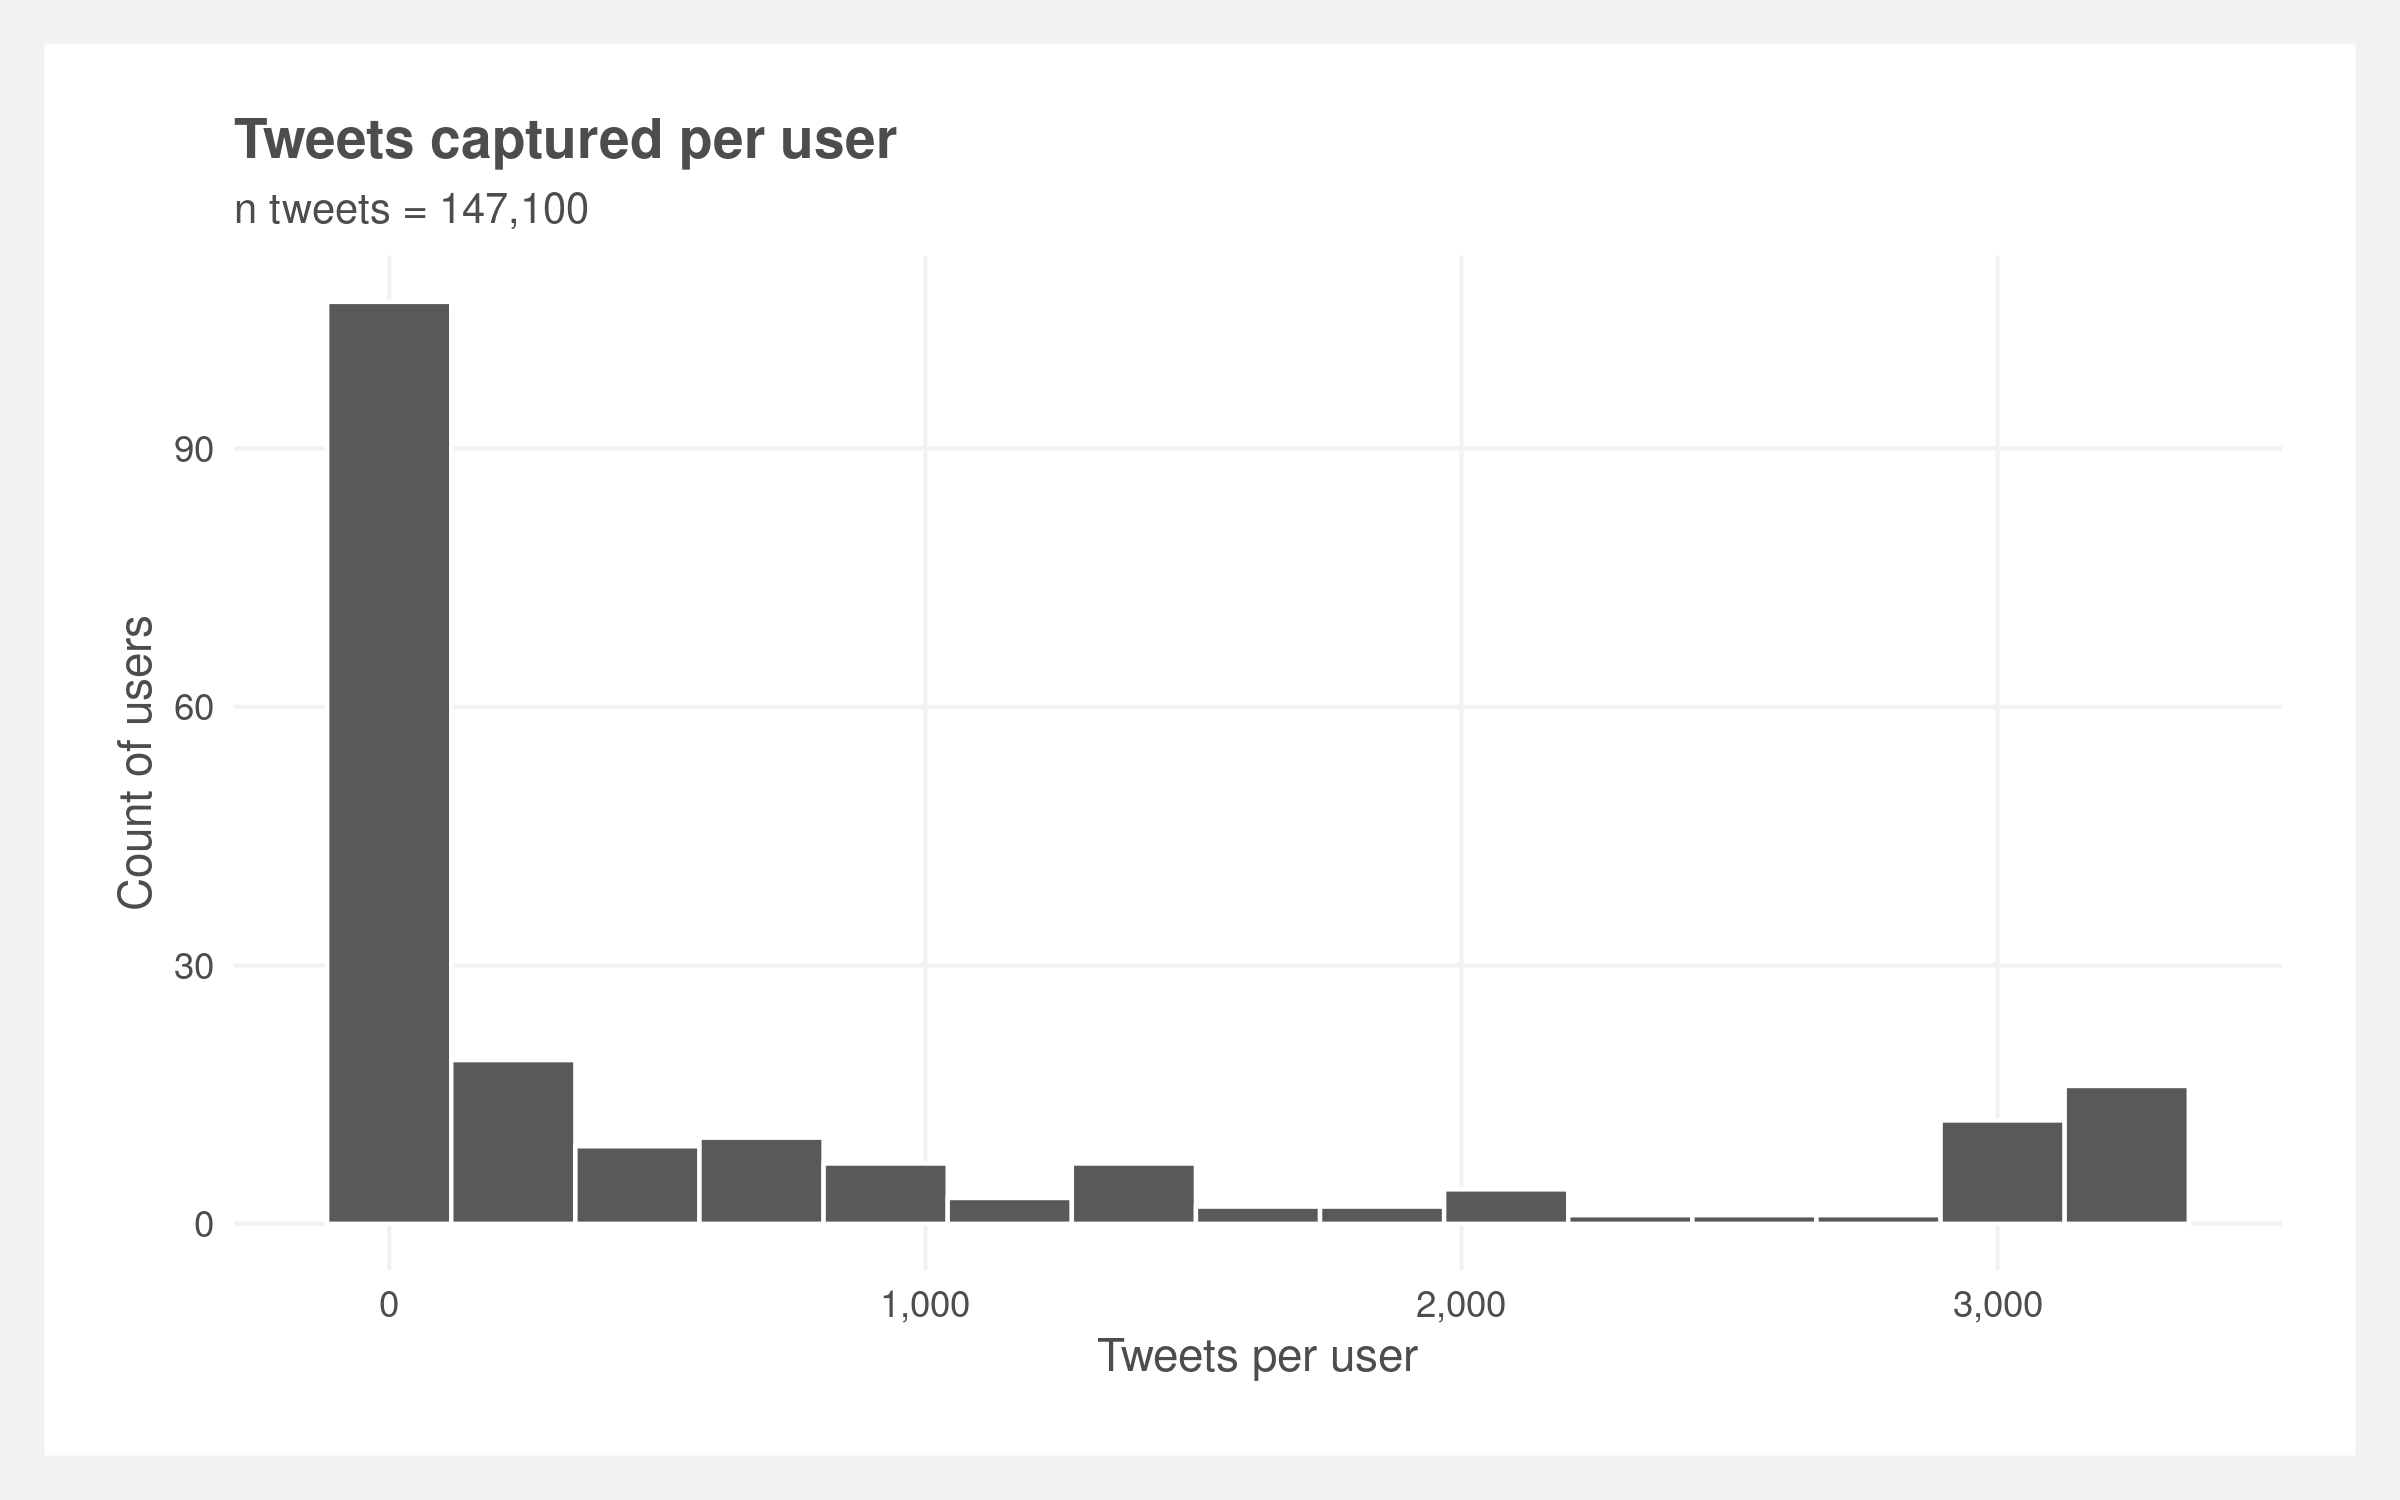
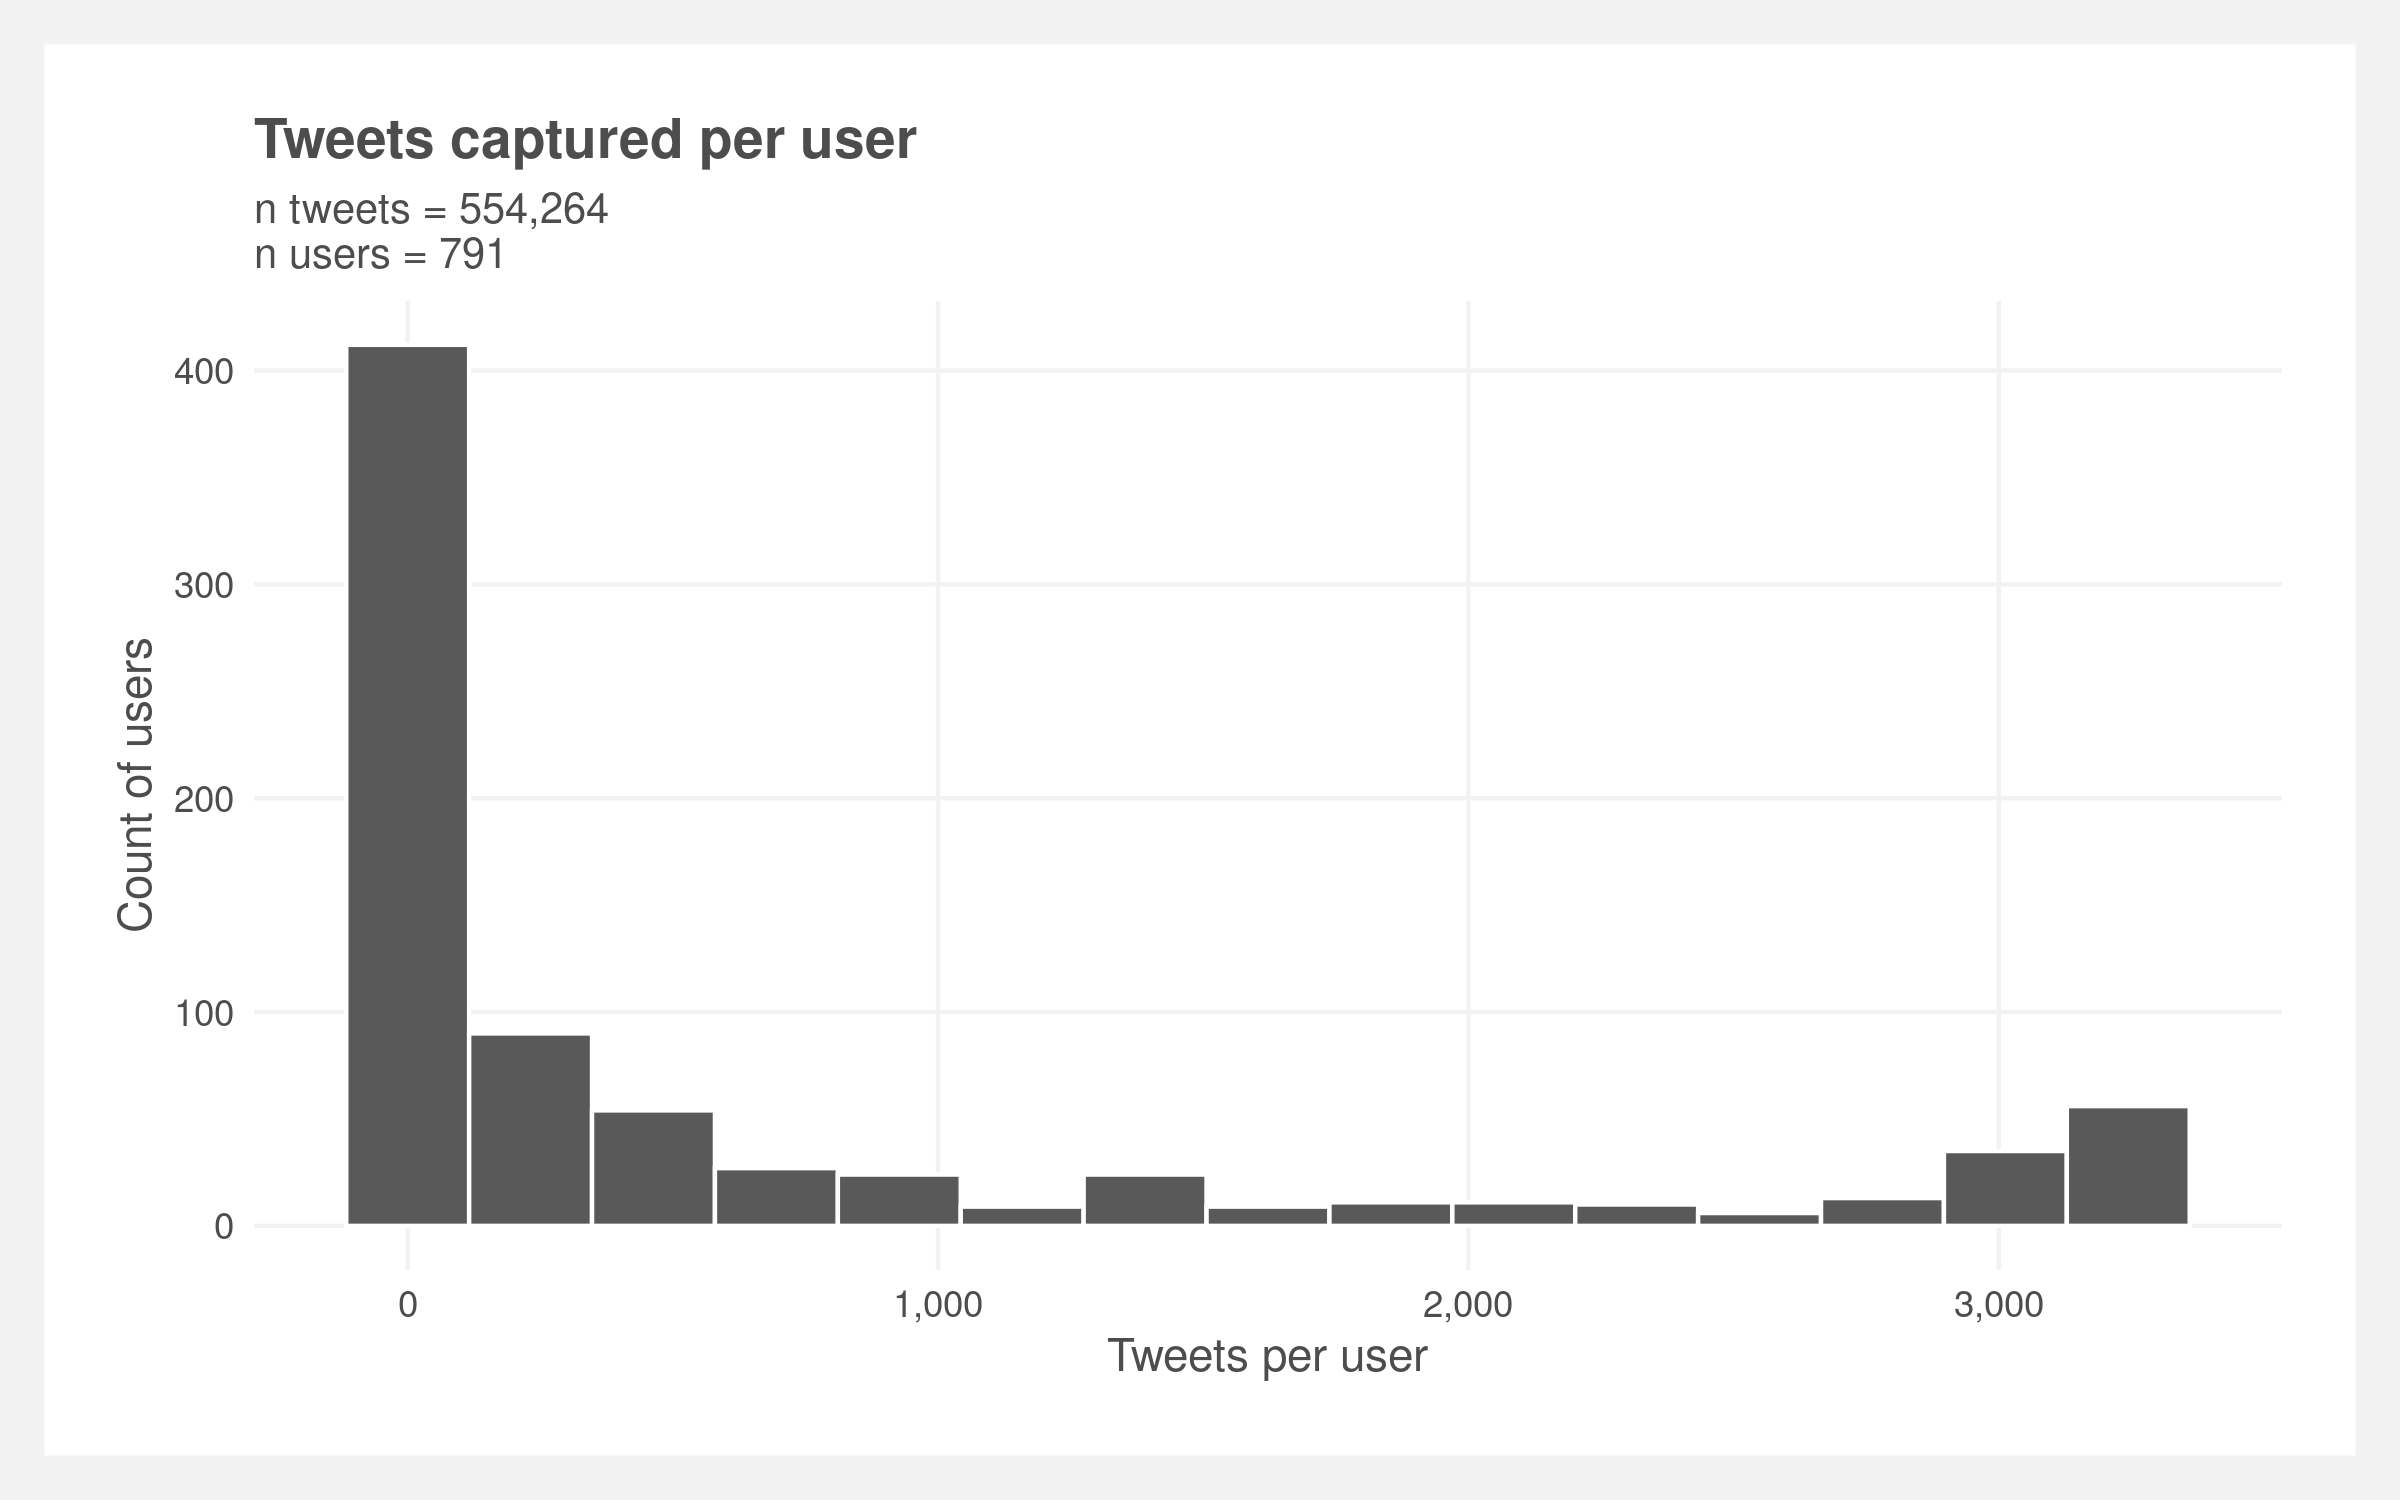
updated data

diff --git a/Tweets/pull_tweets.py b/Tweets/pull_tweets.py
@@ -12,16 +12,16 @@ from get_users_tweets import get_users_tweets
 os.chdir("/home/joemarlo/Dropbox/Data/Projects/hate-speech")
 
 # test the function
-get_users_tweets(user_id=25073877)
-get_users_tweets(user_id=380871320)
-get_users_tweets(user_id=12)
+#get_users_tweets(user_id=25073877)
+#get_users_tweets(user_id=380871320)
+#get_users_tweets(user_id=12)
 
 # run the function on randomly sampled tweets
 # rate limit is 100,000 requests per day
 # and 900 requests per 15min
 # https://developer.twitter.com/en/docs/twitter-api/v1/tweets/timelines/faq
 results = []
-for i in range(0, 3000):
+for i in range(0, 20000):
 
     # print status on which loop it is on
     print(f"...on sampled user {i}")
@@ -45,13 +45,13 @@ for i in range(0, 3000):
 
 # combine into one dataframe and write out
 all_results = pd.concat(results).reset_index(drop=True)
-all_results.to_csv("Tweets/Data/tweet_20201006_1700.tsv", sep='\t') #this has issues with all delimiters tested
+#all_results.to_csv("Tweets/Data/tweet_20201006_1700.tsv", sep='\t') #this has issues with all delimiters tested
 
 # first add a date column formated in string b/c pandas json formatting is weird
 all_results['Date'] = all_results['created_at'].apply(lambda x: x.strftime('%Y-%m-%d'))
 
 # write out to json (this doesn't have delimter issues)
-all_results.to_json('Tweets/Data/tweet_20201006_1700.json')
+all_results.to_json('Tweets/Data/tweet_20201007_0800.json')
 
 # check number of tweets captured
 all_results.shape
